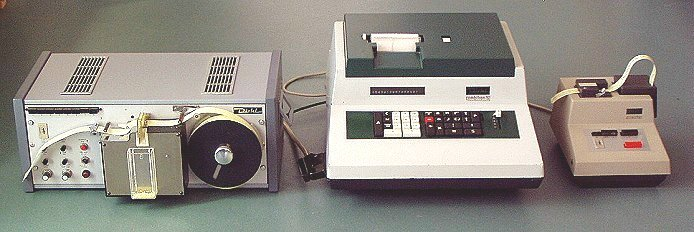
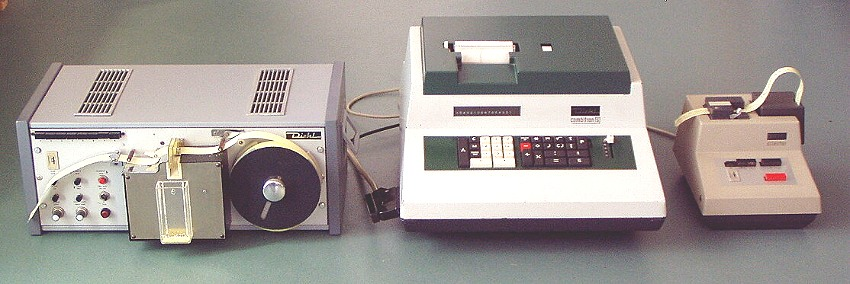
Diehl Combitron und  Olivetti Programma 101 erweitert. Muss noch übersetzt werden.
git-svn-id: https://www.technikum29.de/svn/technikum29-www@614 388e7c26-a98e-49f6-8d48-46b9a15b27c2

diff --git a/de/rechnertechnik/programmierbare.php b/de/rechnertechnik/programmierbare.php
@@ -8,24 +8,65 @@
     <h2>Beispiele für programmierbare Rechner der 2. Generation</h2>
 	
     <p>Rechner der 2. Generation hatten noch keine integrierte Schaltkreise. Das erschwerte den Bau leistungsf&auml;higer Rechner erheblich. Daher sind programmierbare Rechner dieser Spezies technisch besonders interessant. Schon 1966 brachte die deutsche Firma DIEHL einen solchen Rechner auf den Markt. Das Betriebsprogramm wird &uuml;ber einen Metall-Lochstreifen "gebootet" (siehe "Speichermedien"), Anwenderprogramme auf Papier-Lochstreifen gestanzt, die wieder eingelesen werden k&ouml;nnen. Wahrlich die Steinzeit programmierbarer Rechner! Solche Komplett-Anlagen sind sehr rar.</p>
-<h3>Diehl Combitron</h3>
+	
+<h3>Diehl Combitron</h3><br>
+
+<p>Der Diehl-Combitron war der erste funktionsfähige programmierbare Tischrechner, der in Deutschland gebaut und vertrieben wurde (1966-68).
+Die ersten Combitron-Maschinen waren ohne Schnittstelle. Man hatte damit keine Möglichkeit, selbst geschriebene Programme zu speichern. Ein Programm konnte jedoch mit einem Zahlencode ausgedruckt werden, den man bei jedem "Neustart" über die Tastatur wieder eingeben musste. 
+
+<div class="desc-left borderless no-copyright">
+<a class="popup" href="/shared/photos/rechnertechnik/diehl-els.jpg">
+        <img src="/shared/photos/rechnertechnik/diehl-els.jpg" alt="Diehl Lochstreifenstanzer" width="325" height="177" /></a>
+	<p class="small"><b>Manueller Lochstreifenstanzer "DIEHL ELS"</b><br>
+	Vergrößern: Bild anklicken!</p></div>
+
+
+Wir haben einen solchen Rechner, der recht selten ist.  Die Prozedur war sehr umständlich. Diehl erkannte aber schnell, dass diese Art der Bedienung von den Interessenten auf geringe Resonanz stieß. Daher wurde bereits 1967 eine Schnittstelle im Rechner eingebaut, an welche ein Lochstreifenleser anschließbar war. Selbstgeschriebene Programme musste man jedoch an Diehl einsenden. Dort wurden davon gegen Bezahlung Lochstreifen erstellt, die ein paar Tage später per Post zugesandt wurden. <br>
+Dieses Verfahren war sehr umständlich und zeitraubend.
+		Der Konkurrent "Olivetti" war hier viel fortschrittlicher. <br>
+		Dem Druck der Anwender folgend baute man schließlich einen manuellen Lochstreifenstanzer (Diehl ELS), der sozusagen offline betrieben wurde. Es ist das preiswerte Gegenstück zu den Lochkartenstanzern.  </p>
+		
+	
+	<div class="desc-left borderless no-copyright">
+	<a class="popup" href="/shared/photos/rechnertechnik/diehl-els-detail.jpg">
+        <img src="/shared/photos/rechnertechnik/diehl-els-detail.jpg" alt="Diehl Lochstreifenstanzer" width="325" height="242" />
+		</a>
+		<p class="small"><b>DIEHL ELS Lochstreifenstanzer Ausschnitt</b><br>
+		Vergrößern: Bild anklicken!</p>
+		 </div>
+
+<br><br>
+		
+		Das Detail-Bild zeigt, wie Befehle und Ziffern in den Lochcode umzusetzen waren. Immerhin konnte man damit "just in time" arbeiten.
+		Um mit dem Konkurrenten Olivetti mithalten zu können wurde als letzte Version der Lochstreifenstanzer ELS 830, der zunächst nur für den fabrikinternen Gebrauch gedacht war, auch an Kunden verkauft. Dieser Stanzer stanzt die Lochstreifen bei der Eingabe des Programms auf der Tastaur mit. Der Übersetzungscode ist damit entbehrlich.
+		
+		
     <div class="box center auto-bildbreite">
-        <img src="/shared/photos/rechnertechnik/combitron-s.jpg" alt="Diehl Combitron" width="690" height="232" /></div>
-		<p>Die Combitron war der erste funktionsf&auml;hige programmierbare Tischrechner, der in Deutschland gebaut und vertrieben wurde (1966-68). Hier ist die <b>Combitron-S</b> (1968-71) abgebildet, die zusätzlich 10 Programmspeicher, 10 Konstantenspeicher und 2 Sprungbefehle gegenüber der Combitron hatte. Rechts steht der DIEHL Dilector (Lochstreifenleser) und links der DIEHL ELS 830 (Lochstreifenstanzer), der quasi "online" die Programmeingabe auf der Tastatur in den Lochstreifen stanzt. Das System ist voll funktionsf&auml;hig. Als Speichermedium dient ein <a href="speichermedien.php#magnetostriktion" name="backlink-diehl" title="Laufzeitspeicher" class="go">Laufzeitspeicher</a> (Kapazit&auml;t ca. 1000 Bit).<br>
-		Die ersten Combitron-Maschinen waren noch ohne Schnittstelle. Man hatte damit keine Möglichkeit, selbst geschriebene Programme abzuspeichern. Ein Programm konnte jedoch mit einem Zahlencode ausgedruckt werden, den man bei jedem "Neustart" über die Tastatur wieder eingeben musste. Wir haben einen solchen Rechner, der recht selten ist. Schon 1967 wurde über eine eingebaute Schnittstelle ein Lochstreifenleser anschließbar. Nun konnte man selbstgeschriebene Programme an Diehl einsenden. Dort wurden davon Lochstreifen erstellt, die man gegen Bezahlung erwerben konnte und zugeschickt bekam. Die Prozedur war sehr umständlich. Erst später wurde schließlich ein Lochstreifenstanzer angeboten, der das eignene Abstanzen von Programmen erlaubte. Der Konkurrent "Olivetti" war hier viel fortschrittlicher:</p>
-    
+        <img src="/shared/photos/rechnertechnik/combitron-s.jpg" alt="Diehl Combitron" width="850" height="284" />
+		<p class="small"> <b>DIEHL Lochstreifenstanzer ELS830, Combitron-S, Dilector</b></p>
+		</div>
+		 
+		<p> Hier ist die <b>Combitron-S</b> (1968-71) abgebildet, die zusätzlich 10 Programmspeicher, 10 Konstantenspeicher und 2 Sprungbefehle gegenüber der Ur-Combitron hatte. Als Speichermedium dient ein <a href="speichermedien.php#magnetostriktion" name="backlink-diehl" title="Laufzeitspeicher" class="go">Laufzeitspeicher</a> (Kapazität ca. 1000 Bit). Es handelt sich um einen "flüchtigen Speicher". Nach dem Abschalten waren alle Programme und Daten weg. Der Lochstreifenleser "Dilector" erlaubte schließlich das erneute Einlesen abgelochter Programme.</p><br>
+		
+		
+	
 <h3>Olivetti Programma 101</h3>
 
-    <p>Im selben Jahr (1966) erschien die Olivetti Programma 101 auf dem Markt. Erstmals in der Geschichte der EDV war es f&uuml;r Ingenieurb&uuml;ros m&ouml;glich, einen "kleinen" Rechner zu erwerben, auf welchem man schnell eigene Programme auf Magnetkarten abspeichern konnte. Die Maschine mit viel Mechanik wurde zu einem Verkaufsschlager. Billig war dieser Einstieg nicht: Doch der Preis von 14800,- DM + Steuer (ca. 8000,- Euro) machte sich durch Einsparen von viel manueller Rechenzeit schnell bezahlt.</p>
+    <p>Im selben Jahr (1966) erschien die Olivetti Programma 101 auf dem Markt. Erstmals in der Geschichte der EDV war es für Ingenieurbüros möglich, einen "kleinen" Rechner zu erwerben, auf welchem man schnell eigene Programme auf Magnetkarten abspeichern konnte. Die Maschine mit viel Mechanik wurde zu einem Verkaufsschlager. Billig war dieser Einstieg nicht: Doch der Preis von 14800,- DM + Steuer (ca. 8000,- Euro) machte sich durch Einsparen von viel manueller Rechenzeit schnell bezahlt.</p>
 
-    <div class="box left clear-after">
+    <div class="desc-left borderless">
        <img src="/shared/photos/rechnertechnik/olivetti_programma101.jpg" alt="Programma 101" width="379" height="301" class="weisser-rahmen" />
-       <p class="bildtext">Die legend&auml;re <b>PROGRAMMA 101</b> von Olivetti. <br/>
-           Man k&ouml;nnte die P 101 auch als ersten Personal-Computer der Welt bezeichnen. <br/>
-           In der Mitte ist die Magnet-Programmkarte zu sehen. Der folgende Link f&uuml;hrt auf eine kurze Erl&auml;uterung des hier verwendeten Speichermediums, dem <a class="go" name="backlink-olivetti" href="speichermedien.php#magnetostriktion">Laufzeitspeicher</a>.
-           Der eingebaute magnetostriktive Laufzeitspeicher ist in 10 Register aufgeteilt, wobei jedes Register aus 24 Speicherzellen zu je 8 Bit besteht. Das entspricht ca. 240 Byte Speicherkapazität.
+       <p class="small">Die legendäre <b>PROGRAMMA 101</b> von Olivetti. </p>
+	   </div>
+	   
+          <p> Man könnte die P 101 auch als ersten Personal-Computer der Welt bezeichnen. Aber eigentlich ist es mühsam, darüber zu philosophieren, welcher Rechner der "erste" PC war.<br/>
+           In der Mitte ist die Magnet-Programmkarte zu sehen. Das Speichern von Programmen ist bei dem P101 gegenüber der Combitron sehr komfortabel.<br>
+           Der eingebaute magnetostriktive Laufzeitspeicher ist in 10 Register aufgeteilt, wobei jedes Register aus 24 Speicherzellen zu je 8 Bit besteht. Das entspricht ca. 240 Byte Speicherkapazität. Der folgende Link führt auf eine kurze Erläuterung des hier verwendeten Speichermediums, dem <a class="go" name="backlink-olivetti" href="speichermedien.php#magnetostriktion">Laufzeitspeicher</a><br>
+		   Heute ist dieser Rechner vor allem wegen seines ungewöhnlich schönen und preisgekrönten Designs gesucht. Die Reparatur ist aufwändig, da sich alle Kunststoff-Rollen des Magnetkartenantriebs "verflüssigt" haben und der kleine Trommeldrucker Probleme bereitet. Dennoch: Unsere P 101 ist voll funktionsfähig.
        </p>
-	</div>
+	<br><br><br>
+	
+	
 <h3>WANG 320</h3>
     <p>Hochinteressant ist auch der 1967 gebaute wissenschaftliche Rechner "WANG 320". Ein extrem seltenes Ger&auml;t mit Lochkartenprogrammierung und mehreren Keyboards, f&uuml;r die damalige Zeit eine Weltsensation.</p>
 

diff --git a/en/computer/programmable.php b/en/computer/programmable.php
@@ -16,7 +16,7 @@
 
 	<h3>Diehl Combitron</h3>
     <div class="box center">
-        <img src="/shared/photos/rechnertechnik/combitron-s.jpg" alt="Diehl Combitron" width="690" height="232" />
+        <img src="/shared/photos/rechnertechnik/combitron-s.jpg" alt="Diehl Combitron" width="850" height="284" />
 	</div>
 	
 	<p>
